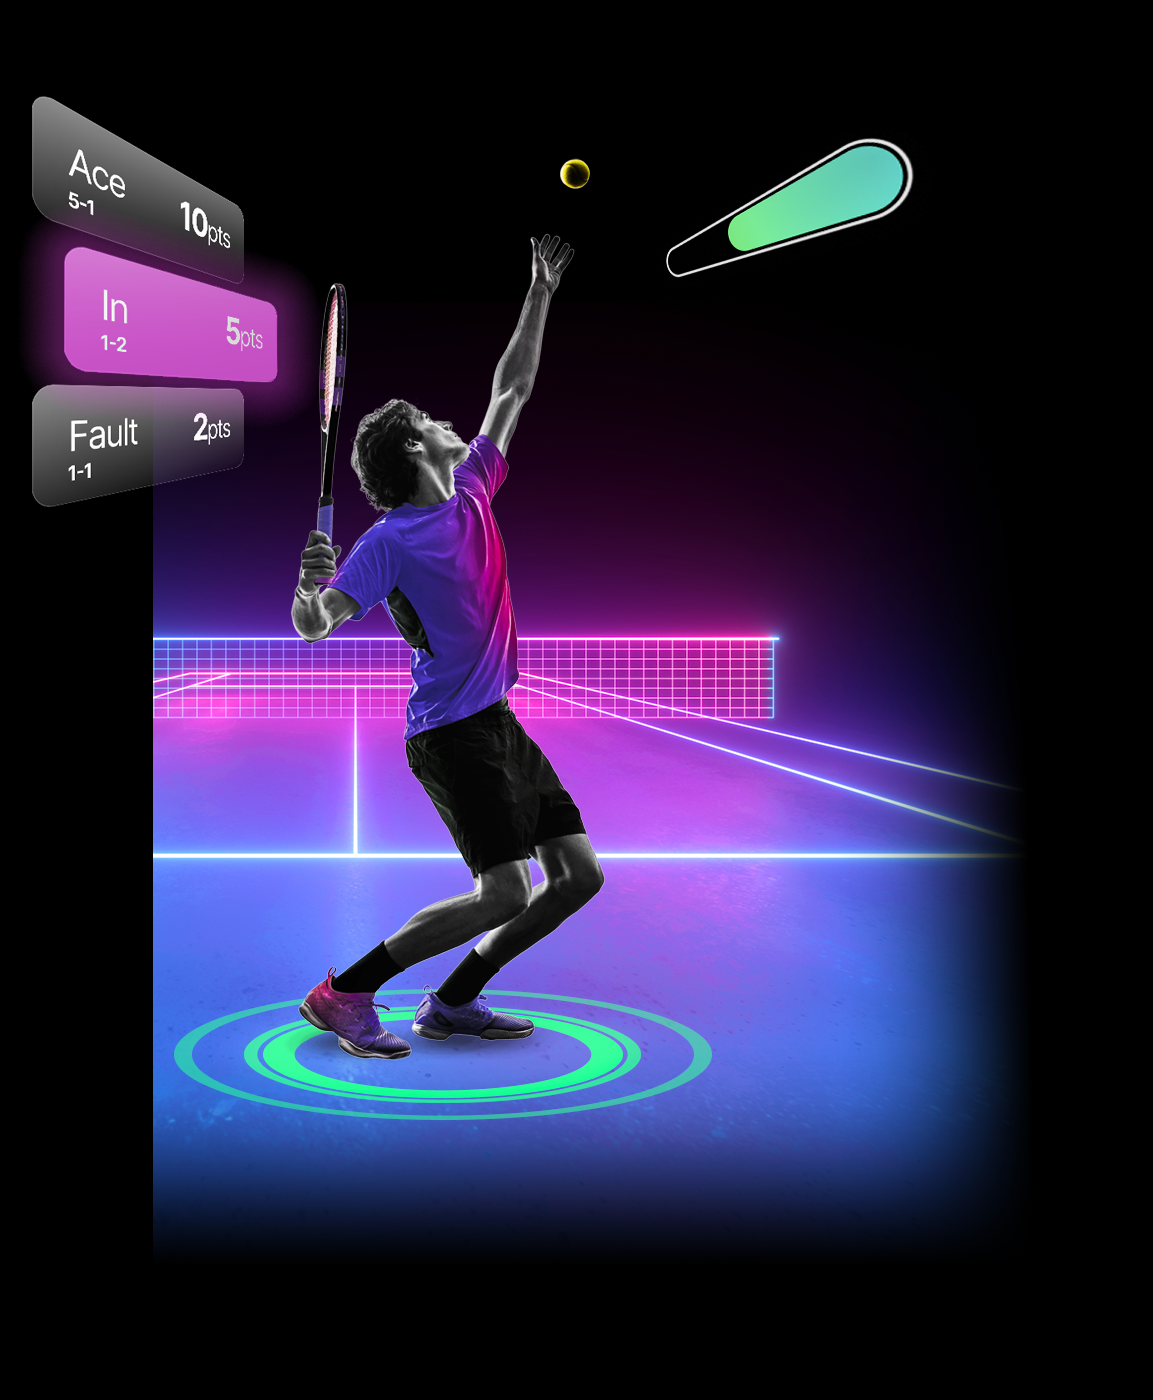
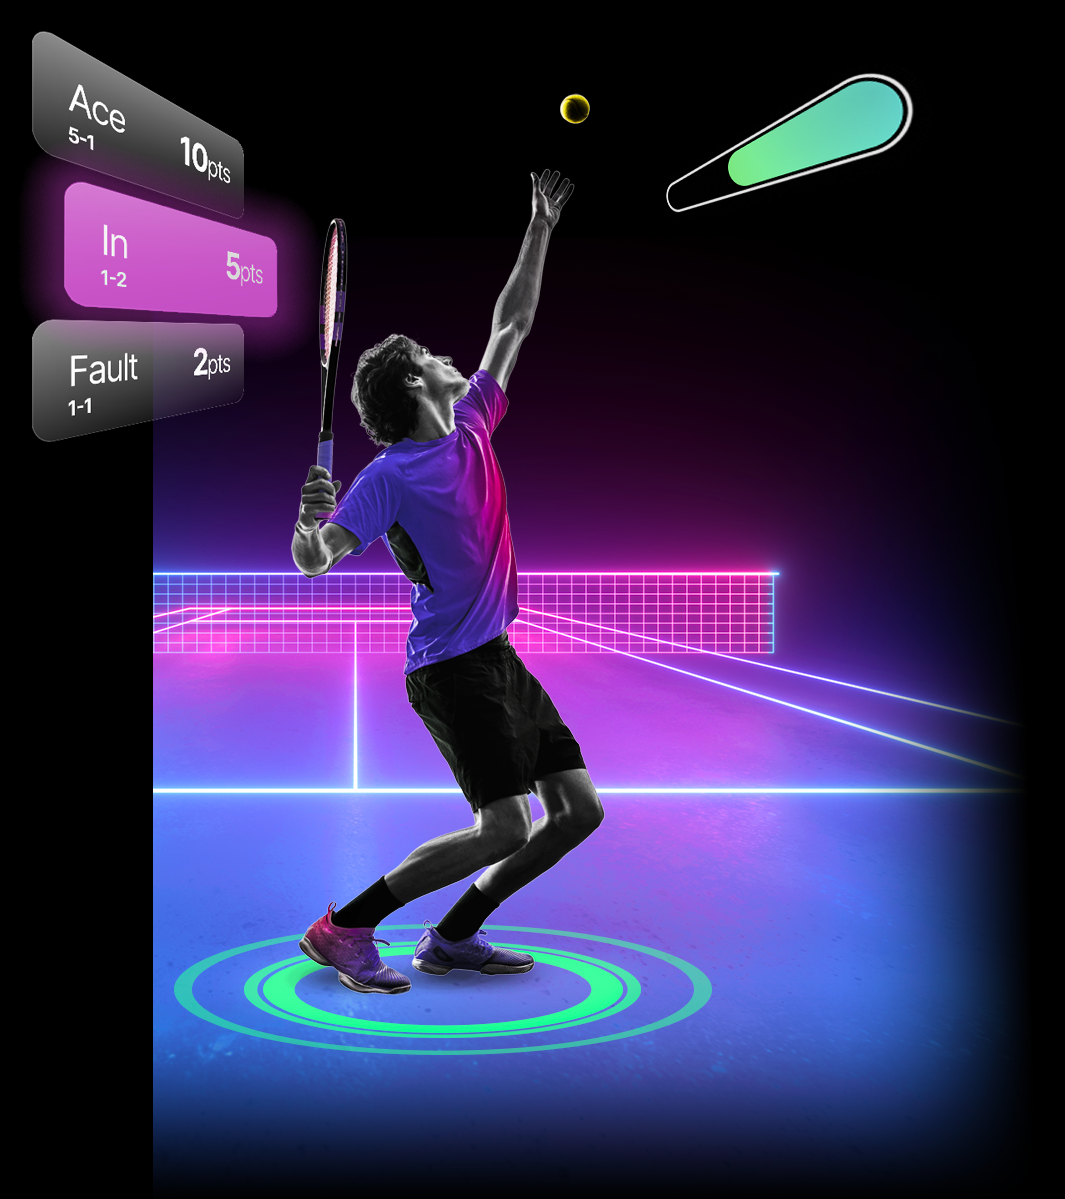
feat: tweaks styles

diff --git a/dreamfight/src/pages/index.tsx b/dreamfight/src/pages/index.tsx
@@ -23,37 +23,37 @@ const IndexPage = () => {
   const image = getImage(data.hero);
 
   return (
-    <div className="flex justify-center lg:flex-row-reverse sm:flex-col-reverse flex-col-reverse">
-      <GatsbyImage image={image} imgStyle={{ objectFit: 'cover', objectPosition: 'right top' }} className="h-screen" alt=""/>
-      <div className="relative z-10 pb-8 bg-black sm:pb-16 md:pb-20 lg:max-w-2xl lg:w-full lg:pb-28 xl:pb-32">
-        <main className="mx-auto px-10 md:px-20">
-          <div className="text-left">
-            <div className='my-10'>
-              <DreamFightLogo />
-            </div>
-            <h1 className="italic mt-16 2xl:mt-16 mb-8 text-white text-6xl md:text-7xl 2xl:text-8xl tracking-tight font-extrabold">
-              Get in the game
-            </h1>
-            <p className="my-3 text-white sm:mt-5 text-lg md:text-2xl md:mt-5 md:text-xl lg:mx-0 text-white">
-              DreamFight is a new sports game augmented over live broadcast that channels the kid in all of us. Think NBA Jam. NFL Blitz. We're bringing back the magic of sports and gaming.
-            </p>
-            <div className="mt-5 sm:mt-8 sm:flex sm:justify-center justify-start">
-              <div className="w-full">
-                <div className='my-3 text-white text-lg font-bold'>
-                  Sign up for early access
-                </div>
-                <div className='flex flex-col sm:flex-row sm:space-x-4 w-3xl font-large'>
-                  <input type="text" className="py-3 mb-3 sm:mb-0 focus:ring-indigo-500 focus:border-indigo-500 flex-1 block w-full rounded text-lg px-3" placeholder="Enter your email"/>
-                  <button className='px-8 py-3 text-lg whitespace-nowrap text-white bg-purple rounded'>
-                    Sign up
-                  </button>
-                </div>
+    <section className="flex justify-center 
+      lg:flex-row-reverse sm:flex-col-reverse flex-col-reverse"
+    >
+      <GatsbyImage image={image} imgStyle={{ objectFit: 'contain', objectPosition: 'left top' }} className="h-screen" alt=""/>
+      <main className="max-w-lg px-10">
+        <div className="text-left">
+          <div className='my-10'>
+            <DreamFightLogo />
+          </div>
+          <h1 className="italic mt-16 2xl:mt-16 mb-8 text-white text-6xl md:text-7xl 2xl:text-8xl tracking-tight font-extrabold">
+            Get in the game
+          </h1>
+          <p className="my-3 text-white sm:mt-5 text-lg md:text-2xl md:mt-5 md:text-xl lg:mx-0 text-white">
+            DreamFight is a new sports game augmented over live broadcast. We're bringing back the magic of sports and gaming.
+          </p>
+          <div className="mt-5 sm:mt-8 sm:flex sm:justify-center justify-start">
+            <div className="w-full">
+              <div className='my-3 text-white text-lg font-bold'>
+                Sign up for early access
+              </div>
+              <div className='flex flex-col sm:flex-row sm:space-x-4 w-3xl font-large'>
+                <input type="text" className="py-3 mb-3 sm:mb-0 focus:ring-indigo-500 focus:border-indigo-500 flex-1 block w-full rounded text-lg px-3" placeholder="Enter your email"/>
+                <button className='px-8 py-3 text-lg whitespace-nowrap text-white bg-purple rounded'>
+                  Sign up
+                </button>
               </div>
             </div>
           </div>
-        </main>
-      </div>
-    </div>
+        </div>
+      </main>
+    </section>
   )
 }
 
